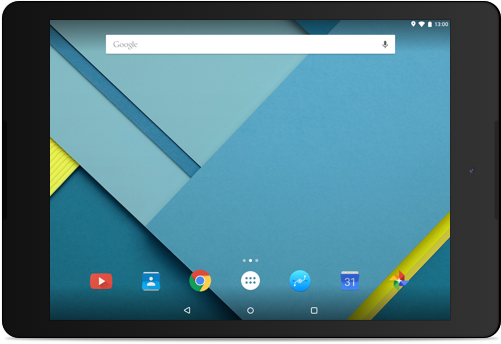
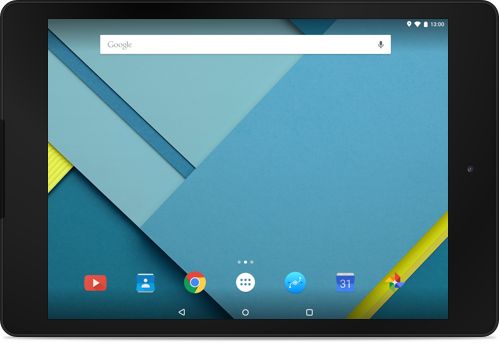
Better Scaling, Links, Nexus Update

diff --git a/static/js/main.js b/static/js/main.js
@@ -163,40 +163,3 @@ $(document).ready(function() {
 function isMobile() {
 	return /Android|webOS|iPhone|iPad|iPod|BlackBerry|IEMobile|Opera Mini/i.test(navigator.userAgent)
 }
-
-// function setupDownloadLink() {
-
-// 	var downloadClass = ".prepare-download"
-// 	var sparkleHost = "//studio.update.framerjs.com"
-
-// 	var downloadLink = sparkleHost + "/archive";
-
-// 	$.get(sparkleHost + "/latest.txt?date=" + Date.now(), function(result) {
-// 		downloadLink = sparkleHost + "/" + result + "?mp_id=" + mixpanel.get_distinct_id();
-// 	})
-
-// 	if (isMobile()) {
-
-// 		// If we are on mobile we pop up an email to not forget to check out the download
-// 		$(downloadClass).attr("href", 
-// 			"mailto:?subject=Check Out Framer Studio&body=Don't forget to check out Framer: http://framerjs.com");
-
-// 	} else {
-
-// 		// If we are on desktop we replace the download links with the latest version of framer
-// 		$(downloadClass).click(function(event) {
-// 			event.preventDefault()
-// 			setTimeout(function() { window.location.href = downloadLink; }, 1000)
-// 			ga('send', 'event', 'Download', 'Framer Studio', downloadLink)
-
-// 			mixpanel.track("page.download", {
-// 				"title": document.title,
-//     			"url": window.location.pathname,
-//     			"link": downloadLink
-// 			})
-// 		})
-// 	}
-// }
-
-// $(document).ready(setupDownloadLink)
-

diff --git a/static/css/pages/home.scss b/static/css/pages/home.scss
@@ -305,18 +305,37 @@ a.device-nexus9 img {
 		display: none;
 	}
 
+	// Examples block
+	.examples {
+		height: 420px; 
+		margin-bottom: 80px;
+		margin-top: 80px;
+	}
+	.examples-caption {
+		text-align: center;
+	}
+	.examples .devices {
+		top: -44px;
+	}
+	a.device-htc,
+	a.device-iphone6,
+	a.device-iphone5c,
+	a.device-macbook,
+	a.device-nexus9 { 
+		@include scale(0.75)
+	}
 	// Device Positioning
 	a.device-htc { 
-		left: 640px; 
+		left: 700px; 
 	}
 	a.device-iphone5c { 
-		right: 640px;
+		right: 700px;
 	}
 	a.device-nexus9 {
-		right: 540px;
+		right: 580px;
 	}
 	a.device-macbook{ 
-		left: 500px; 
+		left: 560px; 
 	}
 	// Video Banner
 	.video-banner {
@@ -355,38 +374,7 @@ a.device-nexus9 img {
 	.ss-video {
 		display: none;
 	}
-	// Examples block
-	.examples {
-		height: 420px; 
-		margin-bottom: 80px;
-		margin-top: 80px;
-	}
-	.examples-caption {
-		text-align: center;
-	}
-	.examples .devices {
-		top: -44px;
-	}
-	a.device-htc,
-	a.device-iphone6,
-	a.device-iphone5c,
-	a.device-macbook,
-	a.device-nexus9 { 
-		@include scale(0.75)
-	}
-	// Device Positioning
-	a.device-htc { 
-		left: 720px; 
-	}
-	a.device-iphone5c { 
-		right: 720px;
-	}
-	a.device-nexus9 {
-		right: 620px;
-	}
-	a.device-macbook{ 
-		left: 580px; 
-	}
+	// Devices
 	.device-video {
 		display: none;
 	}

diff --git a/pages/index.html b/pages/index.html
@@ -73,7 +73,7 @@
 	
 	<section class="block examples">
 			<section class="devices">
-				<a class="device-macbook" target="_blank" href="http://share.framerjs.com/bp9wvx456zoj/">
+				<a class="device-macbook" target="_blank" href="http://share.framerjs.com/p95n6bclbnfp/">
 					<img src="/static/images/home/device-macbook.png" srcset="/static/images/home/device-macbook@2x.png 2x" draggable="false">
 				</a>
 				<a class="device-htc" target="_blank" href="http://framerjs.com/examples/preview/#writer-slideshow.framer">
